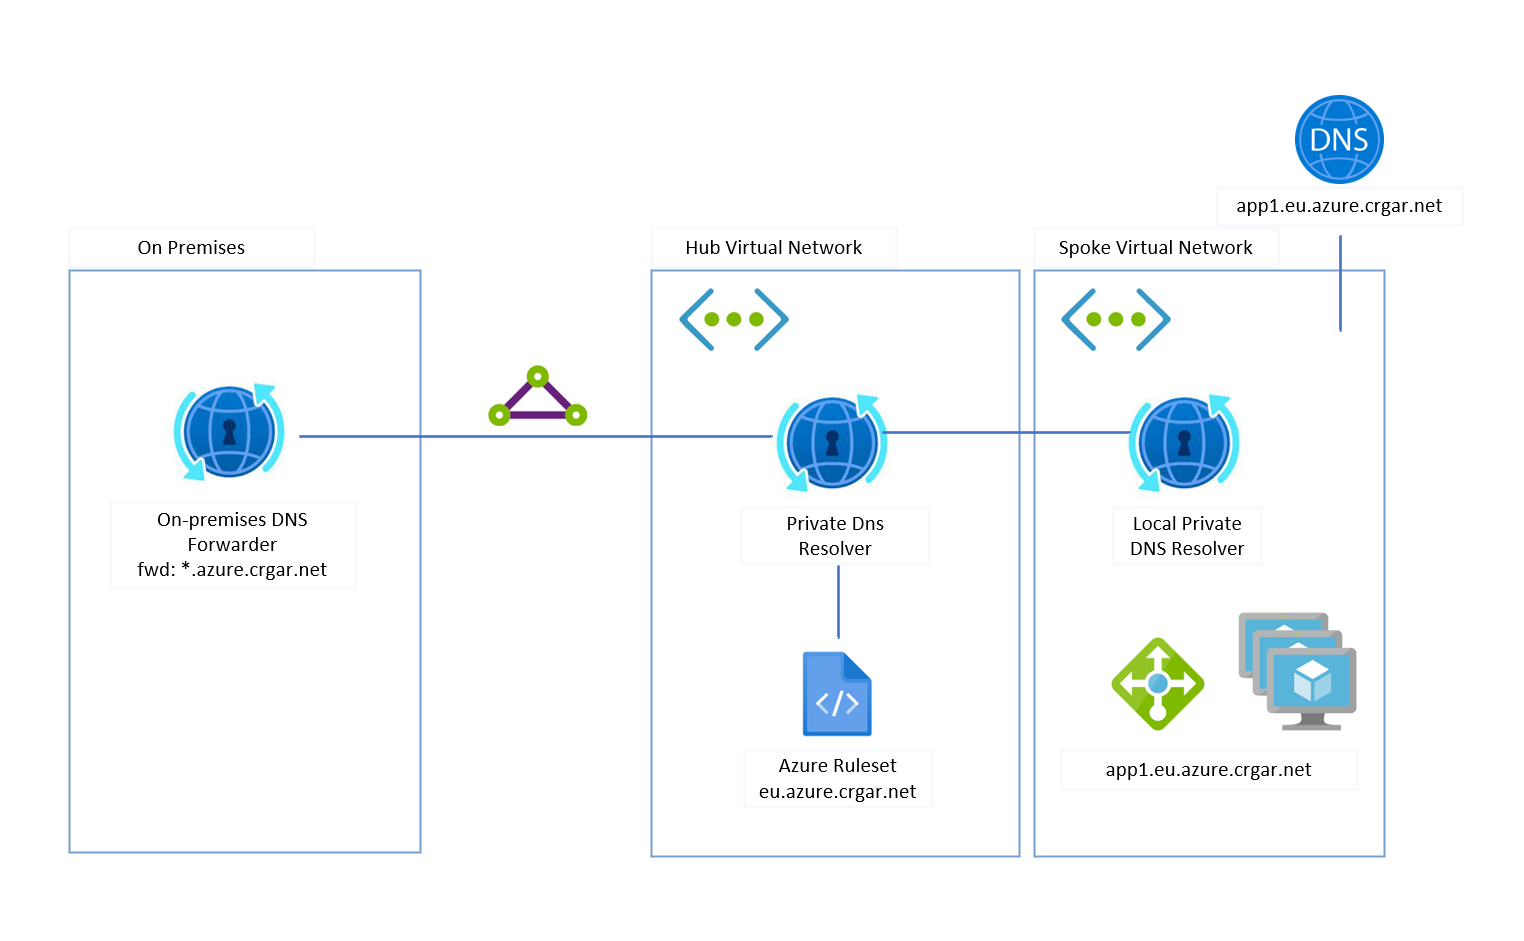
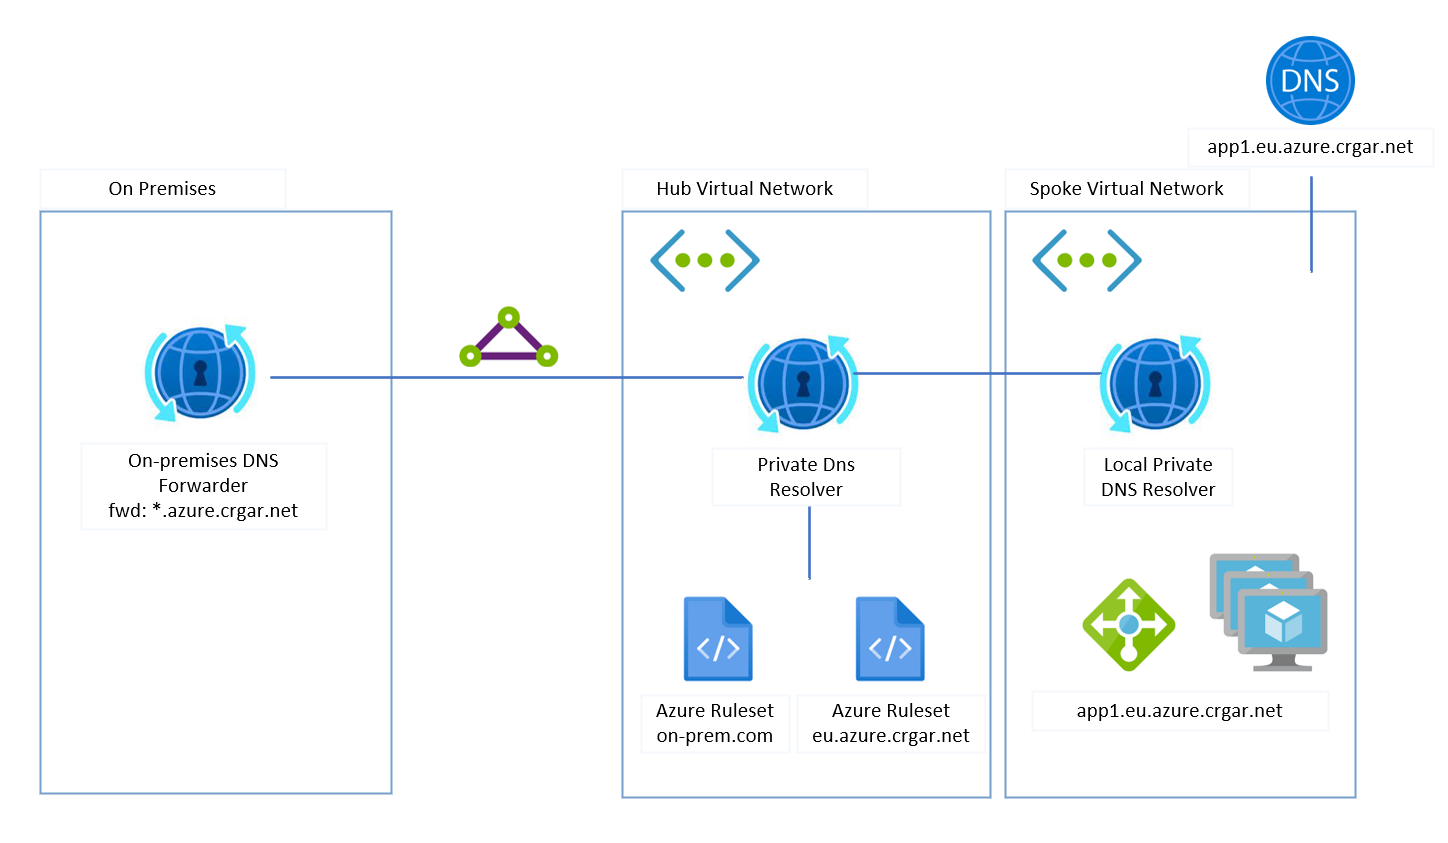
adding more info to the readme

Changed region(s): [[0.0311, 0.0308, 0.9634, 0.9561]]

diff --git a/README.md b/README.md
@@ -15,10 +15,33 @@ This repository experiments with the idea of giving Application Teams the autono
 ![Private resolver architecture](readme-media/private-resolver-architecture.png)
 
 ## Explanation
-[TODO]
-## Limitations
-[TODO]
+First important thing to understand, is how does the resolver affects the standard DNS resolution in an Azure Vnet:
+
+>A client in a virtual network issues a DNS query.
+>1. If the DNS servers for this virtual network are specified as custom, then the query is forwarded to the specified IP addresses.
+>1. If Default (Azure-provided) DNS servers are configured in the virtual network, and there are Private DNS zones linked to the same virtual network, these zones are consulted.
+>1. If the query doesn't match a Private DNS zone linked to the virtual network, then Virtual network links for DNS forwarding rulesets are consulted.
+>1. If no ruleset links are present, then Azure DNS is used to resolve the query.
+>1. If ruleset links are present, the DNS forwarding rules are evaluated.
+>1. If a suffix match is found, the query is forwarded to the specified address.
+>1. If multiple matches are present, the longest suffix is used.
+>1. If no match is found, no DNS forwarding occurs and Azure DNS is used to resolve the query.
+
+Based on that:
+1. The on-prem forwarder, forwards all queries to the Hub Resolver
+1. The Hub Resolver has a ruleset that delegates the domain resolution to the Spoke resolver
+1. The spoke VNet resoles using the Default Azure DNS, specified above. Private DNS zones will be considered to do the resolution
+## Benefits
+* On-prem DNS does not need any changes once initial set-up is done
+* Support for auto registration of VMs
+* Easy to configure and maintain
+* No IaaS service required
+* Cloud native services only
+## Limitations you need to be aware of
+* Forwarding rules per DNS forwarding ruleset: 25
+* DNS forwarding rulesets per outbound endpoint: 2
+
 
 # Method 2: Auto-registering Private DNS Zones into the HUB
 
-[TODO]
+[WIP]
